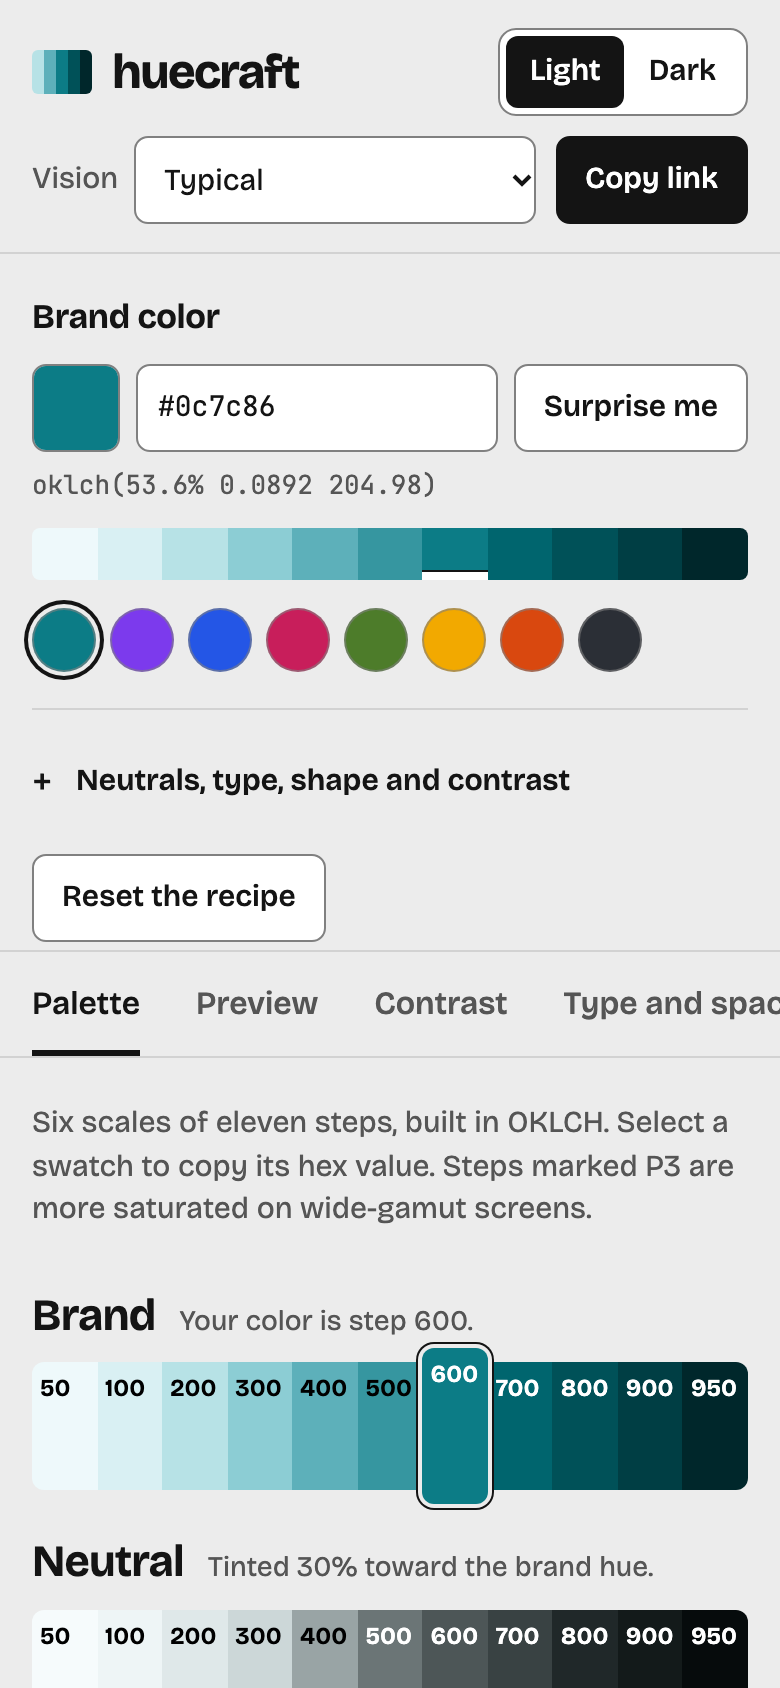
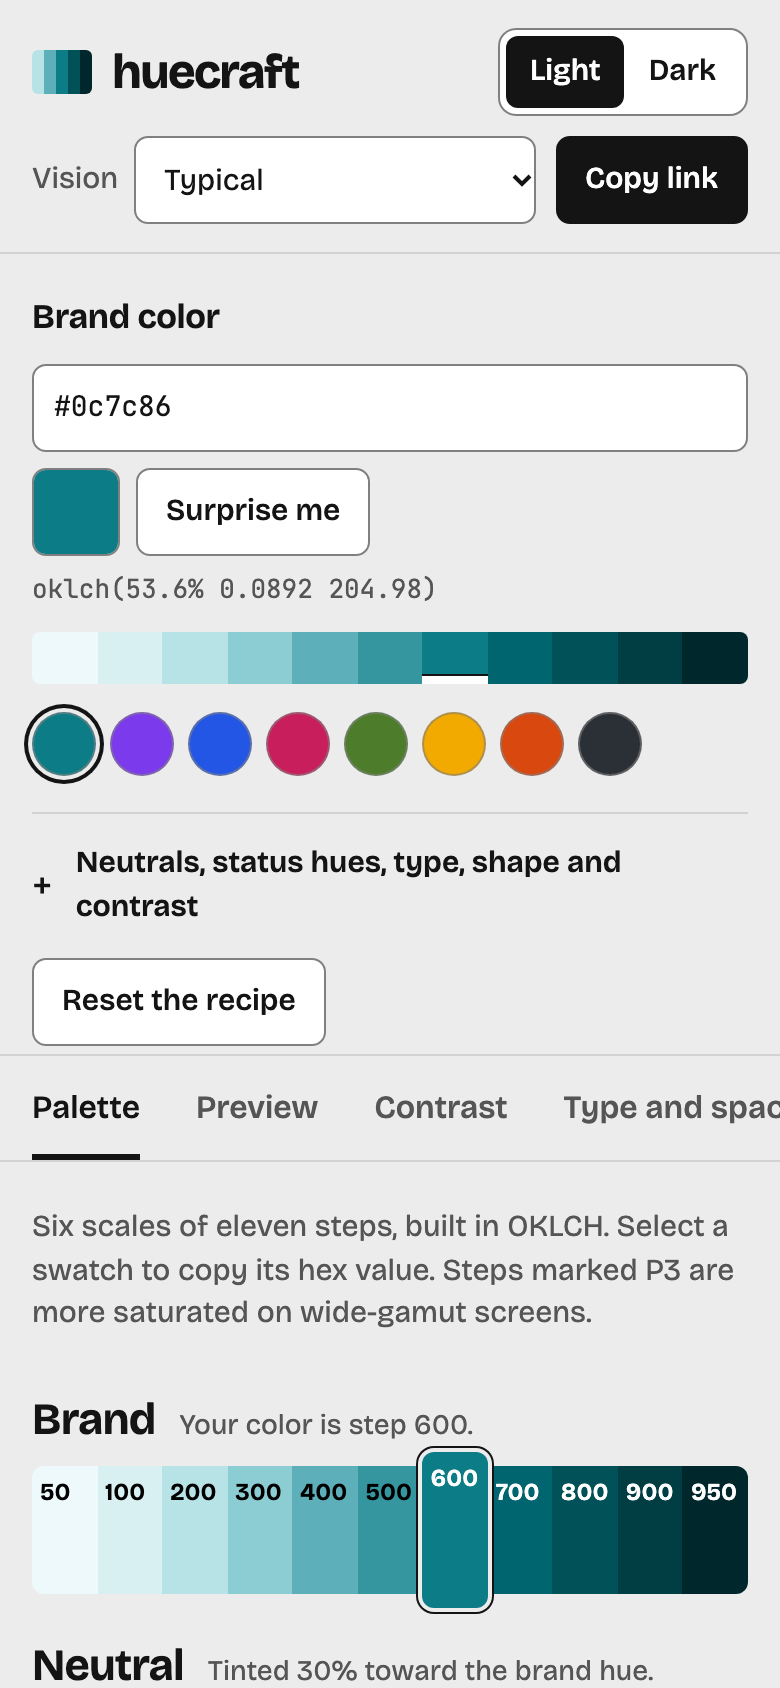
Document status hues; refresh screenshots for the new color field

diff --git a/README.md b/README.md
@@ -35,6 +35,10 @@ Run `node dist-cli/cli.js --help` for every option. huecraft is not published to
 - **Color scales.** Brand, neutral, success, warning, danger and info, eleven steps each (50 to 950), built in OKLCH.
   The brand scale keeps your exact color at the step nearest its lightness. Neutrals are tinted toward the brand hue
   by an amount you choose.
+- **Status hues you can move.** Success, warning, danger and info start at 150°, 75°, 25° and 245° (OKLCH). When a
+  status lands within 30° of your brand's hue or of another status (a red brand and danger, a blue brand and info),
+  the studio says so under the sliders and on the palette, and the CLI prints a note on stderr. Drag the hue away
+  and the scale, its semantic tokens and their contrast fixes follow.
 - **sRGB and Display P3.** Every step is gamut-mapped by lowering chroma only, so lightness and hue hold. Where P3 can
   show more chroma than sRGB, the CSS export adds an `oklch()` override inside `@media (color-gamut: p3)`.
 - **Semantic tokens for light and dark themes.** Backgrounds, surfaces, borders, text, a primary role and four status
@@ -85,12 +89,16 @@ huecraft <color> [options]
       --unit <px>    spacing unit, 3..6   (default: 4)
       --radius <n>   corner roundness, 0..2   (default: 1)
       --level <l>    WCAG contrast target, AA | AAA   (default: AA)
+      --success-hue <deg>, --warning-hue <deg>, --danger-hue <deg>, --info-hue <deg>
+                     OKLCH hue of a status scale, 0..360
+                     (defaults: success 150, warning 75, danger 25, info 245)
       --no-fix       keep preferred steps even where they miss the contrast target
 ```
 
 The CSS, Tailwind and SCSS output starts with a comment holding the command that recreates it; the design-tokens
 JSON has it in `$description`. The Figma payload carries no such note, because it is a request body.
-Invalid input exits with code 2 and a message on stderr.
+Invalid input exits with code 2 and a message on stderr. A status hue within 30° of the brand or of another status
+prints a note on stderr and still exits 0, so the output can be redirected as usual.
 
 ## How it works
 
@@ -132,8 +140,8 @@ Some decisions worth knowing:
   Figma file, and Figma offers that endpoint on Enterprise plans only. Shadows and fluid sizes cannot be Figma
   variables, so they are left out or flattened to desktop sizes.
 - In the Tailwind export, shadow utilities keep the light-theme shadows, because Tailwind inlines shadow values.
-- Status hues are fixed (success 150°, warning 75°, danger 25°, info 245°). A brand color close to one of them will
-  look similar to that status.
+- Status hues are not moved for you. huecraft flags a status within 30° of the brand or of another status, but
+  which one to move, and where, is your call. The 30° line is a rule of thumb, not a perceptual measure.
 - Simulated color vision is an approximation and does not replace testing with people.
 
 ## Development
@@ -155,7 +163,6 @@ To publish the studio, enable GitHub Pages for the repository with "GitHub Actio
 ## Roadmap
 
 - A brand color outside sRGB (Display P3 input)
-- Editable status hues, and nudging them away from a clashing brand
 - Per-token overrides in the studio
 - Font family choices and line-height tokens
 - Importing an existing palette

diff --git a/CHANGELOG.md b/CHANGELOG.md
@@ -5,6 +5,24 @@ The format follows [Keep a Changelog](https://keepachangelog.com/en/1.1.0/).
 
 ## [Unreleased]
 
+### Feature round: status hues
+
+- **Added: status hues are part of the recipe.** Four sliders under "Status hues" in the studio, `--success-hue`,
+  `--warning-hue`, `--danger-hue` and `--info-hue` in the CLI, and `hs`, `hw`, `hd`, `hi` in shared links. Links
+  without them keep the old fixed hues (150°, 75°, 25°, 245°). The export header lists only the hues that were moved.
+  Why this one: picking a red, blue or green brand (the most common brand colors) gave a danger, info or success
+  scale that looked like the brand, and there was no way to change it.
+- **Added: hue clash warning** (`hueClashes` in `core/tokens.ts`). A status within 30° of a saturated brand or of
+  another status is named under the sliders and on its palette row; the CLI writes a note to stderr and still exits 0.
+  It warns only; nothing is moved automatically.
+- Unit tests: hues are validated and round-trip, every pair still passes at every hue in 30° steps on five brands
+  and both levels, clashes wrap around 0°, a near-grey brand never clashes, CLI flags and note. One more end-to-end
+  check drives the slider.
+- **Fixed: the brand color field clipped `oklch()` input** (65px wide at desktop). It now has the first line of the
+  group to itself; the picker and "Surprise me" sit under it, in the same order for Tab as on screen.
+- README screenshots refreshed for the new field layout. None of them shows the status sliders, which sit below
+  the fold. The Pages workflow has still never run. Commits from here credit Opus 5.5, as the session's attribution note says.
+
 Two rounds so far: a design and accessibility pass over the studio (screenshots at 1440, 1280, 1024, 820, 390 and
 320px in both themes, a Tab walk of every panel, Windows contrast themes), and before it an independent first-run
 review (a fresh clone, the README followed to the letter, then a read of the whole codebase).
